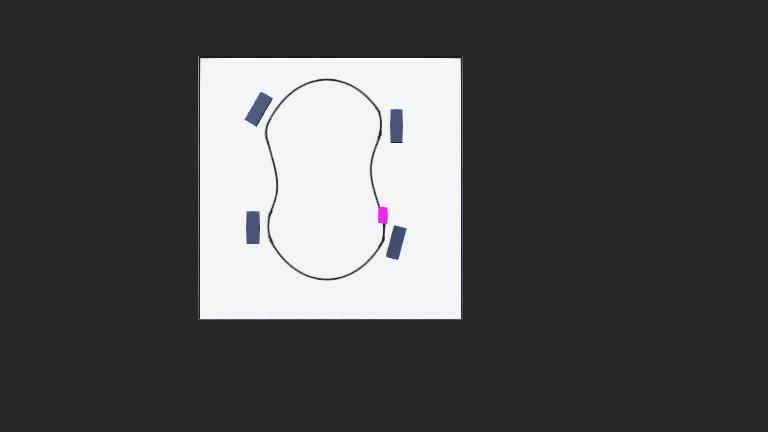
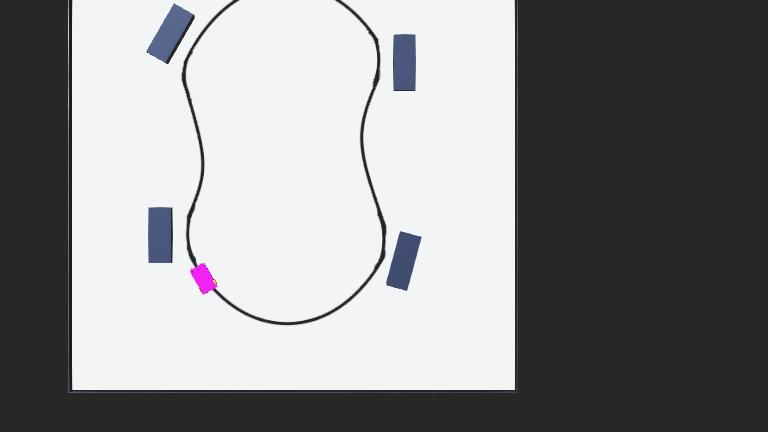
station_arrived

diff --git a/controllers/robot_controller_3/robot_controller_3.py b/controllers/robot_controller_3/robot_controller_3.py
@@ -17,14 +17,14 @@ def sensor_value_to_index(sensor_value):
     value = 0
     if sensor_value<500:
         value = 400
-    elif value>900:
+    elif sensor_value>900:
         value = 900
     else:
-        value = 500 + (int((value-500)/100))*100
+        value = 500 + (int((sensor_value-500)/100))*100
     return (value-400)/100
 
 def action_to_index(action):
-    return action=="move"           # 0 to stop, 1 to move
+    return int(action=="move")           # 0 to stop, 1 to move
 
 def stopped_for_to_index(time):
     return time/32
@@ -51,6 +51,8 @@ class State:
         self.moved_after_stop = None
         self.prev_action = None
         self.stopped_for = None
+        # # debugging
+        # self.sensor_left_orig = None
 
 class Environment:
     def __init__(self,robot):
@@ -72,11 +74,15 @@ class Environment:
         state.moved_after_stop = 0
         state.prev_action = action_to_index("move")
         state.stopped_for = 0
+        # # debugging
+        # self.sensor_left_orig = sensor_values[2]
         return state
 
     def handle_sensor_left(self,state:State,action:str,nextState:State)->float:
         val = 0
         nextState.sensor_left = sensor_value_to_index(self.us[2].getValue())
+        # # debugging
+        # nextState.sensor_left_orig = self.us[2].getValue()
         return val
 
     def handle_sensor_right(self,state:State,action:str,nextState:State)->float:
@@ -95,20 +101,35 @@ class Environment:
     def handle_station_arrived(self,state:State,action:str,nextState:State)->float:
         val = 0
         if action == "stop":
-            nextState.station_arrived = state.station_arrived
             if state.station_arrived == 1:
-                if state.moved_after_stop == 1:
-                    val = -1
-                else:
-                    if stopped_for_to_index(state.stopped_for) == 5:
+                if min(state.sensor_left,state.sensor_right)<sensor_value_to_index(900) and min(nextState.sensor_left,nextState.sensor_right)>=sensor_value_to_index(900):
+                    nextState.station_arrived = 0
+                    if state.moved_after_stop == 1:
                         val = -1
                     else:
-                        val = 1
+                        if stopped_for_to_index(state.stopped_for) == 5:
+                            val = -1
+                        else:
+                            val = 1
+                else:
+                    nextState.station_arrived = 1
+                    if state.moved_after_stop == 1:
+                        val = -1
+                    else:
+                        if stopped_for_to_index(state.stopped_for) == 5:
+                            val = -1
+                        else:
+                            val = 1
             else:
-                val = -1
+                if min(state.sensor_left,state.sensor_right)>=sensor_value_to_index(900) and min(nextState.sensor_left,nextState.sensor_right)<sensor_value_to_index(900):
+                    nextState.station_arrived = 1
+                    val = -1
+                else:
+                    nextState.station_arrived = 0
+                    val = -1
         else:
             if state.station_arrived == 1:
-                if min(state.sensor_left,state.sensor_right)<sensor_value_to_index(900) and min(state.sensor_left,state.sensor_right)>sensor_value_to_index(900):
+                if min(state.sensor_left,state.sensor_right)<sensor_value_to_index(900) and min(nextState.sensor_left,nextState.sensor_right)>=sensor_value_to_index(900):
                     nextState.station_arrived = 0
                     if state.stopped_for>0:
                         val = 1
@@ -118,12 +139,13 @@ class Environment:
                     nextState.station_arrived = 1 
                     val = 1 
             else:
-                if min(state.sensor_left,state.sensor_right)>sensor_value_to_index(900) and min(state.sensor_left,state.sensor_right)<sensor_value_to_index(900):
-                    nextState.station_arrived = 0
+                if min(state.sensor_left,state.sensor_right)>=sensor_value_to_index(900) and min(nextState.sensor_left,nextState.sensor_right)<sensor_value_to_index(900):
+                    nextState.station_arrived = 1
                     val = 1
                 else:
                     nextState.station_arrived = 0
                     val = 1
+        # print(f"action {action} min(state.sensor_left,state.sensor_right) {min(state.sensor_left,state.sensor_right)} min(nextState.sensor_left,nextState.sensor_right) {min(nextState.sensor_left,nextState.sensor_right)} state.station_arrived {state.station_arrived} nextState.station_arrived {nextState.station_arrived} state.sensor_left_orig {state.sensor_left_orig} nextState.sensor_left_orig {nextState.sensor_left_orig} sensor_value_to_index(900) {sensor_value_to_index(900)}")
         return val
     
     def handle_moved_after_stop(self,state:State,action:str,nextState:State)->float:
@@ -172,6 +194,8 @@ class Environment:
         return val
 
     def get_reward_next_state(self,state:State,action:str):
+        # sensor_values = [self.us[i].getValue() for i in range(len(self.us))]
+        # print(sensor_values)
         nextState = State()
         val = 0
         val += self.handle_sensor_left(state,action,nextState)
@@ -236,7 +260,8 @@ class Agent:
 
     def register_initial_state(self,state:tuple):
         self.QAState = state
-        self.handle_new_state(state)
+        if state not in self.QATable:
+            self.handle_new_state(state)
 
     def act(self, leftSpeed, rightSpeed):
         # epsilon greedy

diff --git a/controllers/robot_controller_3/test.py b/controllers/robot_controller_3/test.py
@@ -1,22 +1,22 @@
 import pickle
 
-class pqr:
-    def __init__(self):
-        self.a = 5
+# class pqr:
+#     def __init__(self):
+#         self.a = 5
 
-def abc(l,o):
-    l[1] = 5
-    o.a = 6
+# def abc(l,o):
+#     l[1] = 5
+#     o.a = 6
 
-l = [1,2]
-o = pqr()
-o.a = 55
-abc(l,o)
-print(l,o.a)
+# l = [1,2]
+# o = pqr()
+# o.a = 55
+# abc(l,o)
+# print(l,o.a)
 
 table = 0
 with open("q_table.pkl","rb") as fh:
     table = pickle.load(fh)
 
-print(type(table))
-print(table)
+for state in table:
+    print(state,"\tstop: ",table[state]["stop"],"\tmove: ",table[state]["move"])
